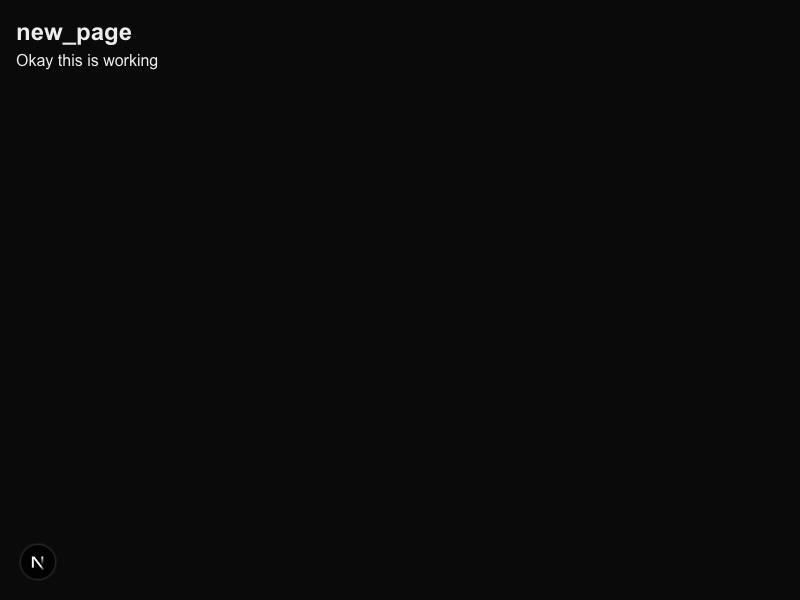
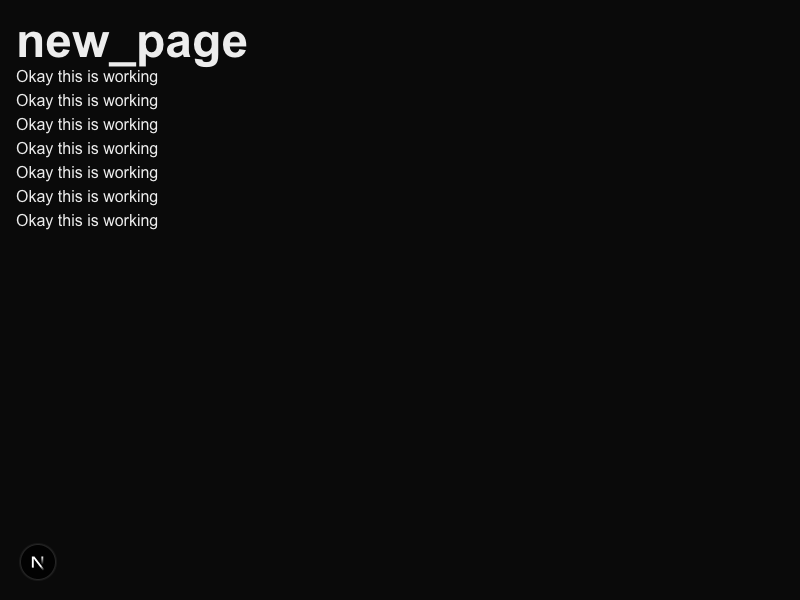
Adds dev mode

Changed region(s): [[0.0, 0.03, 0.3125, 0.39]]

diff --git a/src/lib/screenshot.ts b/src/lib/screenshot.ts
@@ -1,40 +1,99 @@
 import puppeteer from "puppeteer";
 import { join } from "path";
-import { mkdirSync, existsSync } from "fs";
+import {
+  mkdirSync,
+  existsSync,
+  readFileSync,
+  writeFileSync,
+  unlinkSync,
+} from "fs";
+import { createHash } from "crypto";
 
 const SCREENSHOTS_DIR = join(process.cwd(), "public/screenshots");
+const HASHES_DIR = join(process.cwd(), "public/screenshots/.hashes");
 
-// Ensure screenshots directory exists
+// Ensure directories exist
 if (!existsSync(SCREENSHOTS_DIR)) {
   mkdirSync(SCREENSHOTS_DIR, { recursive: true });
 }
+if (!existsSync(HASHES_DIR)) {
+  mkdirSync(HASHES_DIR, { recursive: true });
+}
+
+function getPageContentHash(pageId: string): string {
+  const pagePath = join(process.cwd(), "src/app/pages", pageId, "page.tsx");
+  console.log("Reading page from:", pagePath);
+  const content = readFileSync(pagePath, "utf-8");
+  return createHash("sha256").update(content).digest("hex");
+}
+
+function getStoredHash(pageId: string): string | null {
+  const hashPath = join(HASHES_DIR, `${pageId}.hash`);
+  if (existsSync(hashPath)) {
+    return readFileSync(hashPath, "utf-8");
+  }
+  return null;
+}
+
+function storeHash(pageId: string, hash: string) {
+  const hashPath = join(HASHES_DIR, `${pageId}.hash`);
+  writeFileSync(hashPath, hash);
+}
+
+function deleteScreenshot(pageId: string) {
+  const screenshotPath = join(SCREENSHOTS_DIR, `${pageId}.png`);
+  const hashPath = join(HASHES_DIR, `${pageId}.hash`);
+
+  if (existsSync(screenshotPath)) {
+    unlinkSync(screenshotPath);
+  }
+  if (existsSync(hashPath)) {
+    unlinkSync(hashPath);
+  }
+}
 
 export async function takeScreenshot(pageId: string) {
+  console.log("Taking screenshot for page:", pageId);
+
   const screenshotPath = join(SCREENSHOTS_DIR, `${pageId}.png`);
   const publicPath = `/screenshots/${pageId}.png`;
 
-  // Check if screenshot already exists
-  if (existsSync(screenshotPath)) {
-    console.log(`Using existing screenshot for ${pageId}`);
+  // Get current and stored hashes
+  const currentHash = getPageContentHash(pageId);
+  const storedHash = getStoredHash(pageId);
+  console.log("Current hash:", currentHash);
+  console.log("Stored hash:", storedHash);
+
+  // Check if screenshot exists and content hasn't changed
+  if (existsSync(screenshotPath) && storedHash === currentHash) {
+    console.log(`Using existing screenshot for ${pageId} (content unchanged)`);
     return publicPath;
   }
 
-  // If no existing screenshot, take a new one
+  // If no existing screenshot or content changed, take a new one
   const browser = await puppeteer.launch();
   try {
     const page = await browser.newPage();
 
     // Debug logging
-    const url = `http://localhost:3000/app/pages/${pageId}/page`;
+    const url = `http://localhost:3000/pages/${pageId}`;
     console.log("Attempting to navigate to:", url);
 
-    // Navigate to the page - using Next.js internal routing
+    // Navigate to the page - using Next.js routing
     const response = await page.goto(url, {
       waitUntil: "networkidle0",
     });
 
-    // Log the response status
+    // Log the response status and URL
     console.log("Navigation response status:", response?.status());
+    console.log("Final URL after navigation:", await page.url());
+
+    // If we got a 404, delete the existing screenshot and hash
+    if (response?.status() === 404) {
+      console.log("Page returned 404, deleting existing screenshot and hash");
+      deleteScreenshot(pageId);
+      throw new Error("Page not found");
+    }
 
     // Take screenshot
     await page.screenshot({
@@ -42,7 +101,10 @@ export async function takeScreenshot(pageId: string) {
       fullPage: true,
     });
 
-    console.log(`Created new screenshot for ${pageId}`);
+    // Store the new hash
+    storeHash(pageId, currentHash);
+
+    console.log(`Created new screenshot for ${pageId} (content changed)`);
     return publicPath;
   } catch (error) {
     console.error("Error taking screenshot:", error);

diff --git a/src/app/api/pages/[id]/preview/page.tsx b/src/app/api/pages/[id]/preview/page.tsx
@@ -2,20 +2,41 @@
 
 import { useEffect, useState } from "react";
 import Image from "next/image";
+import { isDevMode } from "@/lib/mode";
 
-interface PagePreviewProps {
-  pageId: string;
+interface PageProps {
+  params: Promise<{
+    id: string;
+  }>;
 }
 
-export default function PagePreview({ pageId }: PagePreviewProps) {
+export const dynamic = "force-dynamic";
+export const revalidate = 0;
+
+export default function PreviewPage({ params }: PageProps) {
   const [screenshotUrl, setScreenshotUrl] = useState<string | null>(null);
   const [error, setError] = useState<string | null>(null);
   const [retryCount, setRetryCount] = useState(0);
+  const [pageId, setPageId] = useState<string | null>(null);
+  const isDev = isDevMode();
 
   useEffect(() => {
+    const loadParams = async () => {
+      const resolvedParams = await params;
+      setPageId(resolvedParams.id);
+    };
+    loadParams();
+  }, [params]);
+
+  useEffect(() => {
+    if (!pageId) return;
+
     const generateScreenshot = async () => {
       try {
-        const response = await fetch(`/api/pages/${pageId}/screenshot`);
+        // Add a cache-busting parameter
+        const response = await fetch(
+          `/api/pages/${pageId}/screenshot?t=${Date.now()}`
+        );
         if (!response.ok) {
           const data = await response.json();
           throw new Error(data.error || "Failed to generate screenshot");
@@ -38,8 +59,10 @@ export default function PagePreview({ pageId }: PagePreviewProps) {
       }
     };
 
-    generateScreenshot();
-  }, [pageId, retryCount]);
+    if (isDev) {
+      generateScreenshot();
+    }
+  }, [pageId, retryCount, isDev]);
 
   if (error) {
     return (
@@ -57,7 +80,7 @@ export default function PagePreview({ pageId }: PagePreviewProps) {
   return (
     <div className="relative w-full h-full overflow-hidden">
       <Image
-        src={screenshotUrl}
+        src={`${screenshotUrl}?t=${Date.now()}`}
         alt={`Preview of ${pageId}`}
         fill
         className="object-contain"

diff --git a/src/lib/fileUtils.ts b/src/lib/fileUtils.ts
@@ -8,39 +8,3 @@ export function ensurePagesDirectory() {
     fs.mkdirSync(PAGES_DIR, { recursive: true });
   }
 }
-
-export function getPageFilePath(name: string) {
-  return path.join(PAGES_DIR, `${name}.tsx`);
-}
-
-export function copyPage(sourcePath: string, newName: string) {
-  const newPath = getPageFilePath(newName);
-  fs.copyFileSync(sourcePath, newPath);
-  return newPath;
-}
-
-export function listPages() {
-  ensurePagesDirectory();
-  return fs
-    .readdirSync(PAGES_DIR)
-    .filter((file) => file.endsWith(".tsx"))
-    .map((file) => {
-      const name = path.basename(file, ".tsx");
-      return {
-        id: name,
-        name,
-        filePath: path.join(PAGES_DIR, file),
-      };
-    });
-}
-
-export function openInEditor(filePath: string) {
-  // This will open the file in the system's default editor
-  const { exec } = require("child_process");
-  const command =
-    process.platform === "win32"
-      ? `start "" "${filePath}"`
-      : `open "${filePath}"`;
-
-  exec(command);
-}

diff --git a/src/store/usePageStore.ts b/src/store/usePageStore.ts
@@ -1,11 +1,5 @@
 import { create } from "zustand";
 import { Page, PageState } from "@/types/page";
-import {
-  listPages,
-  copyPage,
-  getPageFilePath,
-  ensurePagesDirectory,
-} from "@/lib/fileUtils";
 
 interface PageStore extends PageState {
   addPage: (page: Omit<Page, "id" | "createdAt" | "updatedAt">) => void;
@@ -14,7 +8,6 @@ interface PageStore extends PageState {
   selectPage: (id: string) => void;
   duplicatePage: (id: string) => Promise<void>;
   refreshPages: () => Promise<void>;
-  openInEditor: (id: string) => Promise<void>;
 }
 
 export const usePageStore = create<PageStore>((set) => ({
@@ -90,11 +83,5 @@ export const usePageStore = create<PageStore>((set) => ({
         { ...pageToDuplicate, id: newName, name: newName },
       ],
     }));
-  },
-
-  openInEditor: async (id) => {
-    await fetch(`/api/pages/${id}/open`, {
-      method: "POST",
-    });
   },
 }));

diff --git a/src/components/PageGrid.tsx b/src/components/PageGrid.tsx
@@ -4,8 +4,7 @@ import Link from "next/link";
 import PagePreview from "./PagePreview";
 
 export default function PageGrid() {
-  const { pages, selectPage, duplicatePage, openInEditor, refreshPages } =
-    usePageStore();
+  const { pages, duplicatePage, refreshPages } = usePageStore();
 
   useEffect(() => {
     refreshPages();
@@ -26,12 +25,6 @@ export default function PageGrid() {
               {page.name}
             </Link>
             <div className="space-x-2">
-              <button
-                onClick={() => openInEditor(page.id)}
-                className="text-sm text-blue-500 hover:text-blue-700"
-              >
-                Edit
-              </button>
               <button
                 onClick={() => duplicatePage(page.id)}
                 className="text-sm text-blue-500 hover:text-blue-700"

diff --git a/src/app/page.tsx b/src/app/page.tsx
@@ -3,6 +3,7 @@
 import { useEffect } from "react";
 import PageGrid from "@/components/PageGrid";
 import { usePageStore } from "@/store/usePageStore";
+import { Page } from "@/types/page";
 
 export default function Home() {
   const { refreshPages } = usePageStore();
@@ -18,7 +19,7 @@ export default function Home() {
 
     // Check if name exists
     const existingPages = await fetch("/api/pages").then((res) => res.json());
-    while (existingPages.some((p: any) => p.name === finalName)) {
+    while (existingPages.some((p: Page) => p.name === finalName)) {
       finalName = `${name}${counter}`;
       counter++;
     }

diff --git a/src/app/pages/one/page.tsx b/src/app/pages/one/page.tsx
@@ -3,7 +3,13 @@ import React from "react";
 export default function new_page() {
   return (
     <div className="p-4">
-      <h1 className="text-2xl font-bold">new_page</h1>
+      <h1 className="text-5xl font-bold">new_page</h1>
+      <p>Okay this is working</p>
+      <p>Okay this is working</p>
+      <p>Okay this is working</p>
+      <p>Okay this is working</p>
+      <p>Okay this is working</p>
+      <p>Okay this is working</p>
       <p>Okay this is working</p>
     </div>
   );

diff --git a/src/app/api/pages/route.ts b/src/app/api/pages/route.ts
@@ -10,10 +10,6 @@ function ensurePagesDirectory() {
   }
 }
 
-function getPageFilePath(name: string) {
-  return path.join(PAGES_DIR, `${name}/page.tsx`);
-}
-
 export async function GET() {
   ensurePagesDirectory();
   const files = fs

diff --git a/src/app/pages/new_page_copy/page.tsx b/src/app/pages/new_page_copy/page.tsx
@@ -4,7 +4,6 @@ export default function new_page() {
   return (
     <div className="p-4">
       <h1 className="text-2xl font-bold">new_page</h1>
-      <p>Okay this is working</p>
     </div>
   );
 }

diff --git a/src/lib/mode.ts b/src/lib/mode.ts
@@ -1,0 +1,3 @@
+export function isDevMode(): boolean {
+  return process.env.NODE_ENV === "development";
+}

diff --git a/src/app/pages/new_page/page.tsx b/src/app/pages/new_page/page.tsx
@@ -1,0 +1,5 @@
+const NewPage = () => {
+  return <div>NewPage</div>;
+};
+
+export default NewPage;

diff --git a/README.md b/README.md
@@ -38,6 +38,6 @@ Check out our [Next.js deployment documentation](https://nextjs.org/docs/app/bui
 
 
 Todo
-- diff screenshots
 - dev vs prod mode so it's possible to deploy
 - make it "generalized" so you can fork this
+- rename files through the frontend
